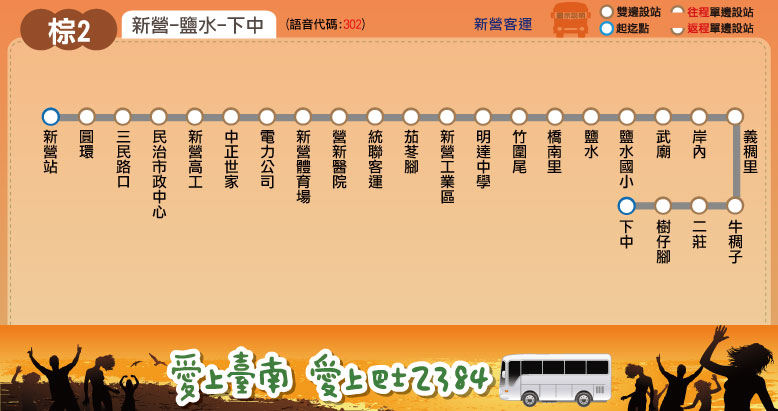
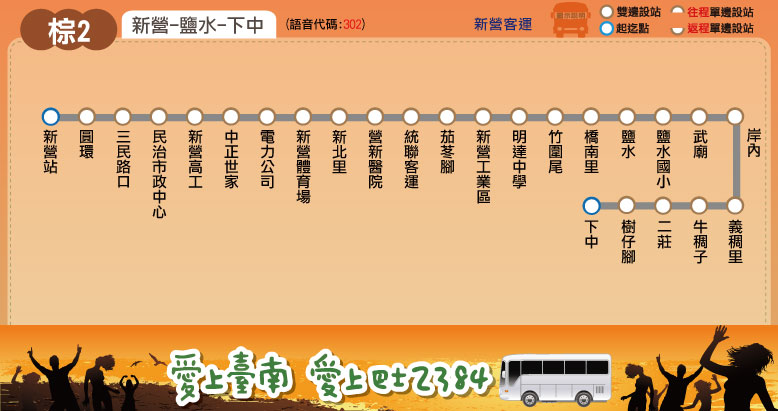
finished the time schedule of brown 1 & 2

Changed region(s): [[0.401, 0.292, 0.9563, 0.6423], [0.9563, 0.292, 0.9871, 0.438]]

diff --git a/route/fare_and_time/brown_2.js b/route/fare_and_time/brown_2.js
@@ -1,42 +1,24 @@
-brown_2_interval_name = ["新營","茄苳腳","鹽水","後寮","番子寮","孫厝寮","羊稠厝","頂洲","北紅茄萣","新渡子頭","渡子頭","南鯤鯓","雙春"];
+brown_2_interval_name = ["新營","茄苳腳","鹽水","牛稠子","下中"];
 brown_2_interval_stop = [
-["新營站","圓環","三民路口","齊普","新營漁市場","太子路口","統聯客運"], // 新營
+["新營站","圓環","三民路口","民治市政中心","新營高工","中正世家","電力公司","新營體育場","新北里","營新醫院","統聯客運"], // 新營
 ["茄苳腳","新營工業區","明達中學"], // 茄苳腳
-["竹圍尾","橋南里","鹽水","地政事務所","月津國小"], // 鹽水
-["後寮"], // 後寮
-["番子寮"], // 番子寮
-["孫厝寮","南孫厝寮"], // 孫厝寮
-["羊稠厝","頑皮世界"], // 羊稠厝
-["頂洲"], // 頂洲
-["北紅茄萣"], // 北紅茄萣
-["新渡子頭"], // 新渡子頭
-["渡子頭"], // 渡子頭
-["南鯤鯓","橋北"], // 南鯤鯓
-["永春","雙春"] // 雙春
+["竹圍尾","橋南里","鹽水","鹽水國小","武廟"], // 鹽水
+["岸內","義稠里","牛稠子","二莊"], // 牛稠子
+["樹仔腳","下中"] // 下中
 ];
-brown_2_stop_time_consume = [0,1,3,5,7,8,10,11,13,15,16,18,20,22,24,26,27,29,31,32,33,34,35,36,37,36,37,38,40,43,45,46,47,49,50,
-52,53,54,55,56,57,58,60]; // fake time
-brown_2_fare = [ // fake fare
+brown_2_stop_time_consume = [0,2,4,6,8,9,9,10,11,11,12,15,16,17,19,20,22,25,26,26,27,27,28,29,30];
+brown_2_fare = [
 [26],
 [26,26],
-[26,26,26],
-[33,26,26,26],
-[39,26,26,26,26],
-[46,31,26,26,26,26],
-[50,34,26,26,26,26,26],
-[52,36,27,26,26,26,26,26],
-[55,39,30,26,26,26,26,26,26],
-[59,43,34,26,26,26,26,26,26,26],
-[73,57,48,41,34,27,26,26,26,26,26],
-[82,67,57,50,43,36,33,30,27,26,26,26],
-[89,73,64,57,50,43,39,37,34,31,26,26,26],
-[100,84,75,68,61,54,50,48,45,42,27,26,26,26]
+[34,26,26],
+[39,26,26,26],
+[49,26,26,26,26]
 ];
 // format = [time at the start stop] or
 // [time, other] or
 // [time, start_stop, end_stop, other]
-brown_2_main_stop_name = ["新營","統聯<br />客運","鹽水","頑皮世界","南鯤鯓","雙春"];
-brown_2_main_stop_time_consume = [0, 8, 18, 35, 51, 55];
-brown_2_important_stop = [0, 2, 4, 5]; // 新營, 鹽水, 南鯤鯓, 雙春
-brown_2_time_go = [["9:45"],["13:25"],["17:40"]];
-brown_2_time_return = [["6:00"],["10:40"],["14:20"]];
+brown_2_main_stop_name = ["新營","統聯<br />客運","鹽水","下中"];
+brown_2_main_stop_time_consume = [0, 12, 22, 30];
+brown_2_important_stop = [0, 2, 3]; // 新營, 鹽水, 下中
+brown_2_time_go = [["07:50"],["09:50"],["13:50"],["15:50"]];
+brown_2_time_return = [["08:20"],["10:20"],["14:20"],["16:20"]];

diff --git a/brown/brown_2.html b/brown/brown_2.html
@@ -67,7 +67,7 @@ select.get_fare option.option5
 			<table border="0">
 				<tr>
 					<td>起訖點</td>
-					<td>新營 － 鹽水 － 南鯤鯓 － 雙春</td>
+					<td>新營 － 鹽水 － 下中</td>
 				</tr>
 				<tr>
 					<td>營運公司</td>
@@ -75,7 +75,13 @@ select.get_fare option.option5
 				</tr>
 				<tr>
 					<td>首／末班車發車時刻</td>
-					<td>往 雙春：09:45／17:40<br />往 新營：06:00／14:20</td>
+					<td>
+					<script language="javascript">
+					document.write('往 下中：'+brown_2_time_go[0]+'／'+brown_2_time_go[brown_2_time_go.length-1]);
+					document.write('<br />');
+					document.write('往 新營：'+brown_2_time_return[0]+'／'+brown_2_time_return[brown_2_time_return.length-1]);
+					</script>
+					</td>
 				</tr>
 				<tr>
 					<td>班距</td>
@@ -87,7 +93,7 @@ select.get_fare option.option5
 				</tr>
 			</table>
 			<p>　</p>
-			<a href="http://2384.tainan.gov.tw:8080/AGPSRemoteQuery3/ajaxBus.jsp?pathId=1301&locale=zh_TW" class="button">公車動態資訊</a> </div>
+			<a href="http://2384.tainan.gov.tw:8080/AGPSRemoteQuery3/ajaxBus.jsp?pathId=1302&locale=zh_TW" class="button">公車動態資訊</a> </div>
 	</div>
 </div>
 <div id="wrapper3">
@@ -133,10 +139,10 @@ select.get_fare option.option5
 		<span class="byline">Bus schedule</span> </div>
 	<div class="content">
 		<script language="javascript">
-			document.write('<h2><font color="brown">新營-&gt;雙春</font></h2>');
+			document.write('<h2><font color="brown">新營-&gt;下中</font></h2>');
 			create_time_schedule(brown_2_main_stop_name, brown_2_main_stop_time_consume, brown_2_important_stop, brown_2_time_go, false);
 			document.write('<p>　</p>');
-			document.write('<h2><font color="brown">雙春-&gt;新營</font></h2>');
+			document.write('<h2><font color="brown">下中-&gt;新營</font></h2>');
 			create_time_schedule(brown_2_main_stop_name, brown_2_main_stop_time_consume, brown_2_important_stop, brown_2_time_return, true);
 			document.write(TimeScheduleMSG);
 		</script>

diff --git a/route/fare_and_time/brown_1.js b/route/fare_and_time/brown_1.js
@@ -14,29 +14,27 @@ brown_1_interval_stop = [
 ["南鯤鯓","橋北"], // 南鯤鯓
 ["永春","雙春"] // 雙春
 ];
-brown_1_stop_time_consume = [0,1,3,5,7,8,10,11,13,15,16,18,20,22,24,26,27,29,31,32,33,34,35,36,37,36,37,38,40,43,45,46,47,49,50,
-52,53,54,55,56,57,58,60]; // fake time
-brown_1_fare = [ // fake fare
+brown_1_stop_time_consume = [0,2,4,5,6,7,8,11,12,13,15,16,18,18,20,23,25,27,27,28,30,32,33,35,36,41,43,44,45];
+brown_1_fare = [
 [26],
 [26,26],
 [26,26,26],
 [33,26,26,26],
-[39,26,26,26,26],
-[46,31,26,26,26,26],
+[40,26,26,26,26],
+[46,30,26,26,26,26],
 [50,34,26,26,26,26,26],
-[52,36,27,26,26,26,26,26],
-[55,39,30,26,26,26,26,26,26],
-[59,43,34,26,26,26,26,26,26,26],
-[73,57,48,41,34,27,26,26,26,26,26],
-[82,67,57,50,43,36,33,30,27,26,26,26],
-[89,73,64,57,50,43,39,37,34,31,26,26,26],
-[100,84,75,68,61,54,50,48,45,42,27,26,26,26]
+[55,40,30,26,26,26,26,26],
+[60,44,34,26,26,26,26,26,26],
+[67,51,42,34,27,26,26,26,26,26],
+[71,55,46,38,32,26,26,26,26,26,26],
+[82,66,57,49,42,36,32,26,26,26,26,26],
+[88,72,63,55,49,43,39,33,29,26,26,26,26]
 ];
 // format = [time at the start stop] or
 // [time, other] or
 // [time, start_stop, end_stop, other]
 brown_1_main_stop_name = ["新營","統聯<br />客運","鹽水","頑皮世界","南鯤鯓","雙春"];
-brown_1_main_stop_time_consume = [0, 8, 18, 35, 51, 55];
+brown_1_main_stop_time_consume = [0, 8, 18, 30, 41, 45];
 brown_1_important_stop = [0, 2, 4, 5]; // 新營, 鹽水, 南鯤鯓, 雙春
 brown_1_time_go = [["09:45"],["13:25"],["17:40"]];
 brown_1_time_return = [["06:00"],["10:40"],["14:20"]];

diff --git a/brown/brown_1.html b/brown/brown_1.html
@@ -75,7 +75,13 @@ select.get_fare option.option5
 				</tr>
 				<tr>
 					<td>首／末班車發車時刻</td>
-					<td>往 雙春：09:45／17:40<br />往 新營：06:00／14:20</td>
+					<td>
+					<script language="javascript">
+					document.write('往 雙春：'+brown_1_time_go[0]+'／'+brown_1_time_go[brown_1_time_go.length-1]);
+					document.write('<br />');
+					document.write('往 新營：'+brown_1_time_return[0]+'／'+brown_1_time_return[brown_1_time_return.length-1]);
+					</script>
+					</td>
 				</tr>
 				<tr>
 					<td>班距</td>
